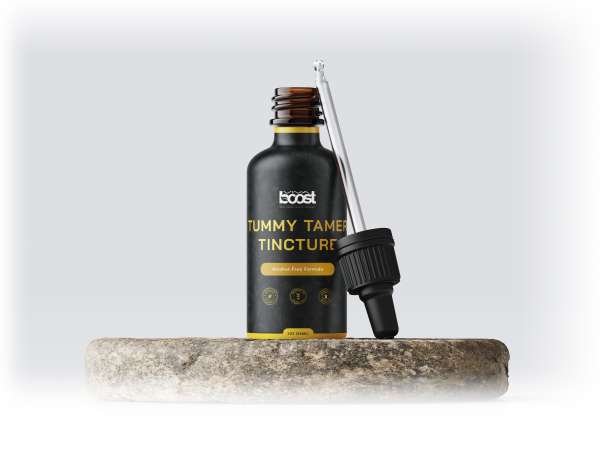
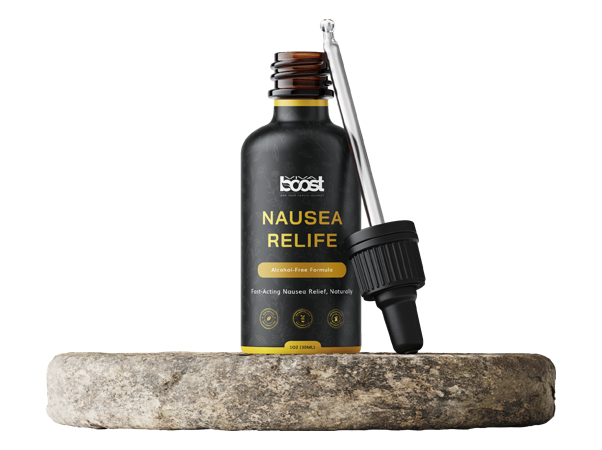
names

diff --git a/index.html b/index.html
@@ -102,7 +102,7 @@
                     <img class="group-hover:scale-125 w-50 object-cover transition-all duration-300"
                         src="images/pro1.png" alt="pro1" />
                     <div class="text-center mt-4">
-                        <h2 class="font-bold text-lg">GutPunch Gummies</h2>
+                        <h2 class="font-bold text-lg">Constipation relife</h2>
                         <p class="text-sm">Gentle Digestive Support, Naturally</p>
                         <p class="text-md font-semibold mt-1">$30.95 USD</p>
                         <img class="mx-auto block mt-4" src="stars.svg" alt="stars">
@@ -112,7 +112,7 @@
                     <img class="group-hover:scale-125 w-50 object-cover transition-all duration-300"
                         src="images/pro2.png" alt="pro2" />
                     <div class="text-center mt-4">
-                        <h2 class="font-bold text-lg">Zoomies Energy Shot</h2>
+                        <h2 class="font-bold text-lg">Energy </h2>
                         <p class="text-sm">Power Through Your Day, Naturally</p>
                         <p class="text-md font-semibold mt-1">$20.95 USD</p>
                         <img class="mx-auto block mt-4" src="stars.svg" alt="stars">
@@ -122,7 +122,7 @@
                     <img class="group-hover:scale-125 w-50 object-cover transition-all duration-300"
                         src="images/pro3.png" alt="pro3" />
                     <div class="text-center mt-4">
-                        <h2 class="font-bold text-lg">Tummy Tamer Tincture</h2>
+                        <h2 class="font-bold text-lg">Nausea Relief</h2>
                         <p class="text-sm">Fast-Acting Nausea Relief, Naturally</p>
                         <p class="text-md font-semibold mt-1">$32.95 USD</p>
                         <img class="mx-auto block mt-4" src="stars.svg" alt="stars">
@@ -139,7 +139,7 @@
             </div>
             <div class="my-10 lg:my-8 max-w-2xl mx-auto text-center">
                 <p class="group mt-4 mr-2 mb-4 text-xl font-semibold leading-tight text-[#50C647] cursor-pointer">
-                    Tummy Tamer Tincture
+                    Nausea Relief
                 </p>
                 <h1 class="text-4xl sm:text-6xl font-bold text-[#000000]">
                     Fast-Acting Nausea Relief, Naturally
